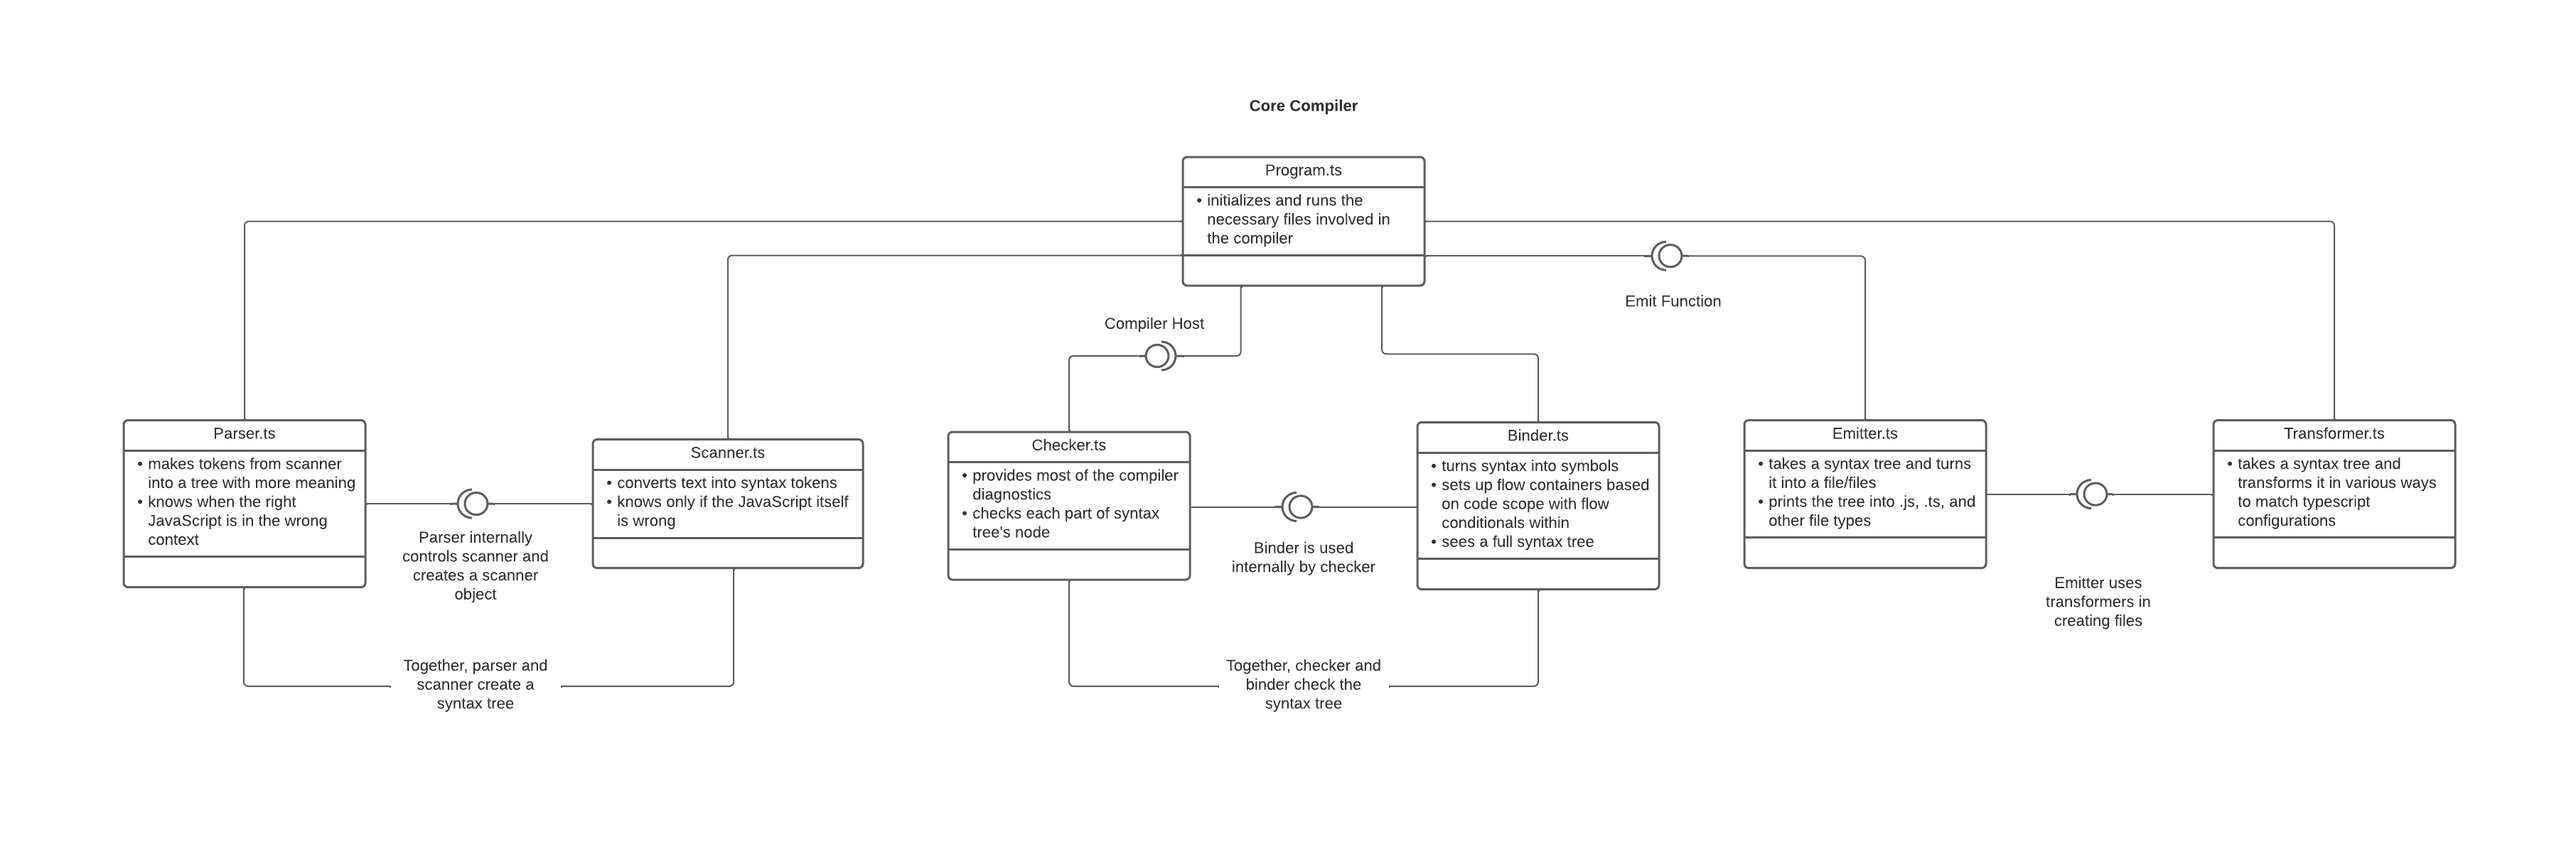
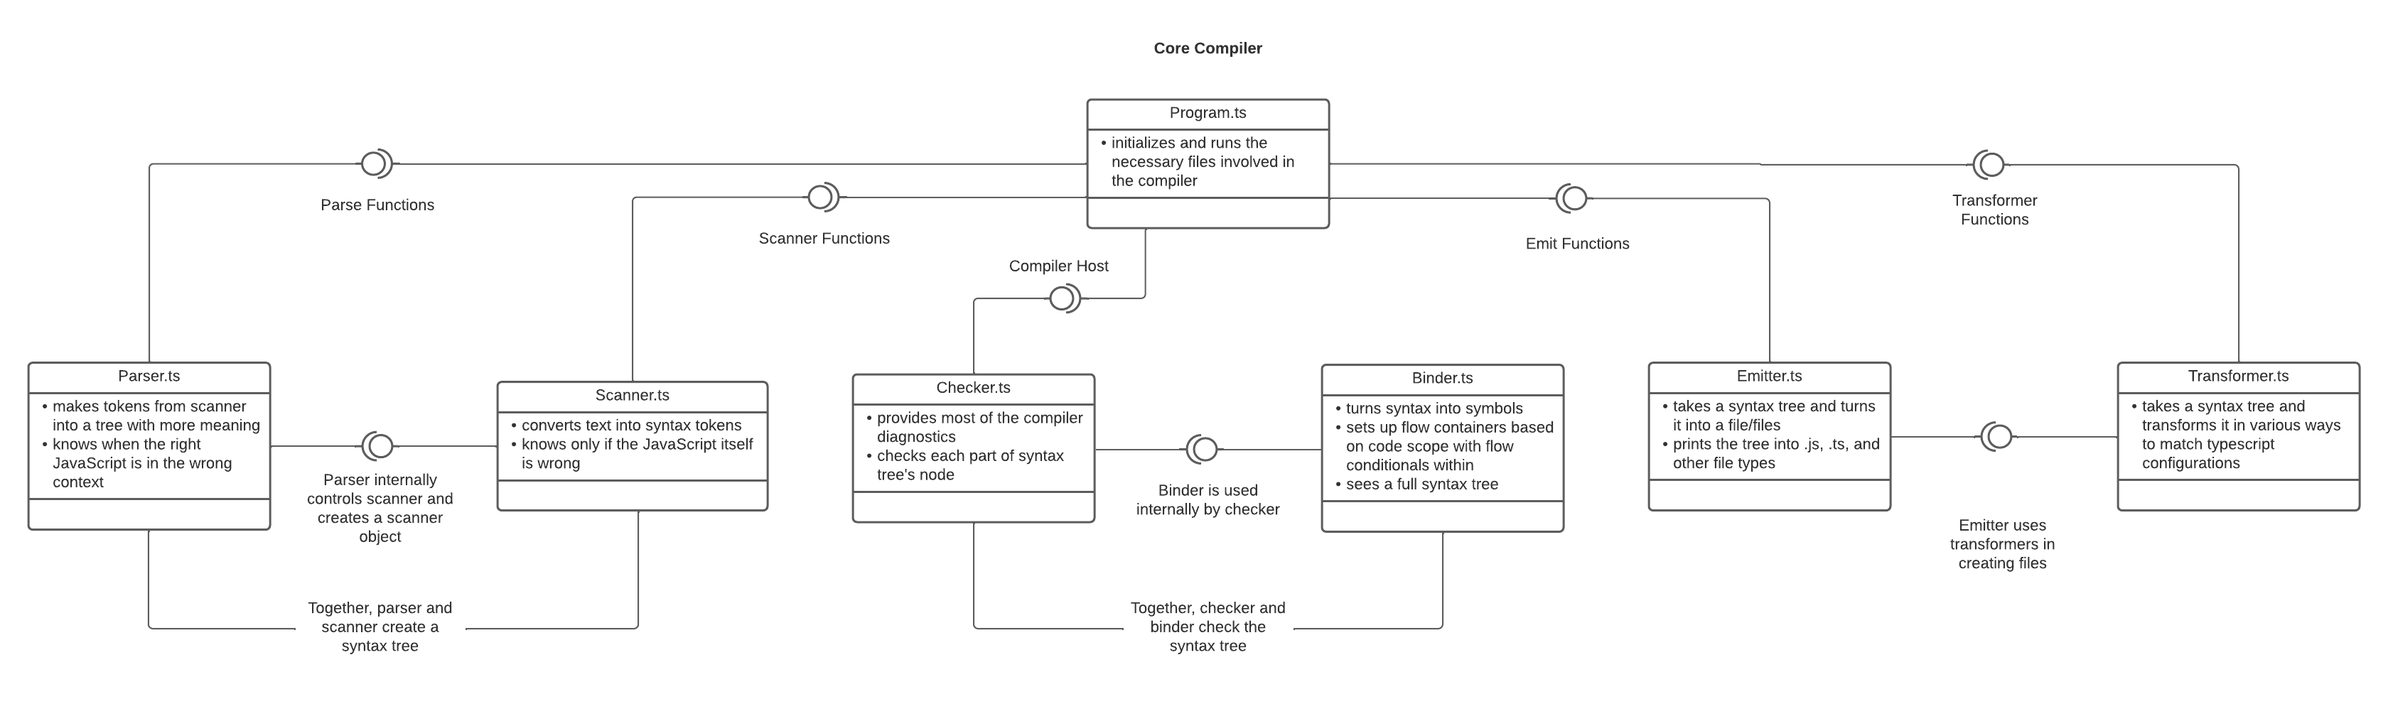
Update dependencies and Component diagram

diff --git a/README.md b/README.md
@@ -190,12 +190,12 @@ For full dependencies, see "Details" below:
 
 |Components|Dependencies|
 |--|--|
-|program.ts|types.ts|
+|program.ts|types.ts, parser.ts, scanner.ts, checker.ts, emitter.ts, transformer.ts|
 |parser.ts|types.ts, scanner.ts|
 |scanner.ts|types.ts|
-|checker.ts|types.ts|
+|checker.ts|types.ts, binder.ts|
 |binder.ts|types.ts|
-|emitter.ts|types.ts|
+|emitter.ts|types.ts, transformer.ts|
 |transformer.ts|types.ts|
 
 
